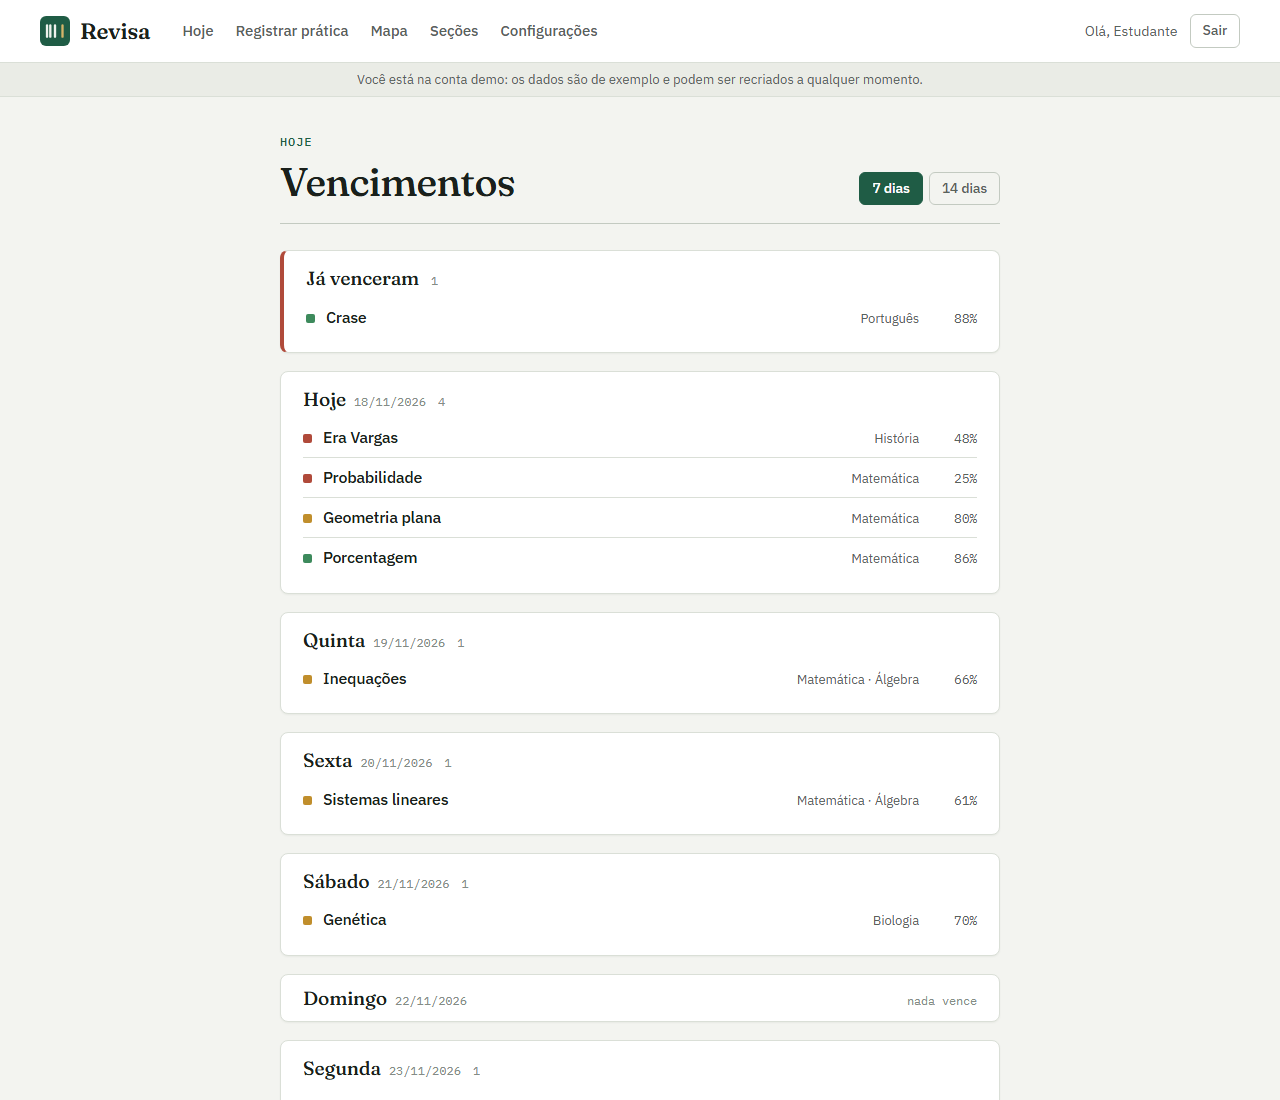
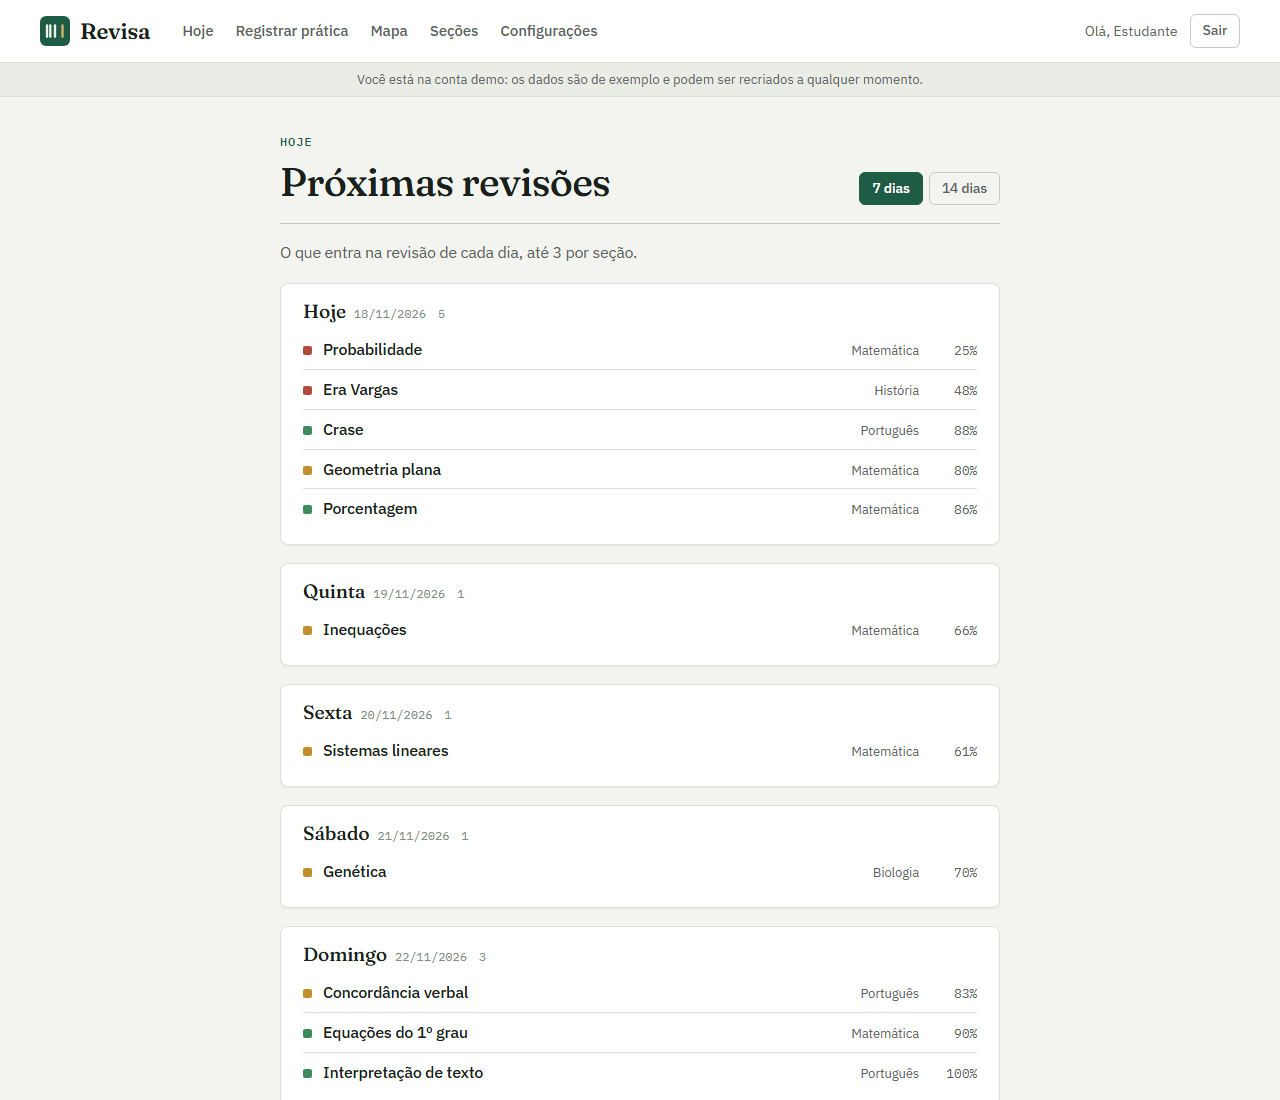
Próximas revisões: lista planejada de cada dia
- A página de vencimentos virou "Próximas revisões": mostra a revisão
  final de cada dia com as mesmas regras da tela Hoje (limite por seção,
  dia fixo, dias das seções e ciclo); o que não cabe passa para o dia
  seguinte.
- O cartão do painel usa os mesmos números.
- README e prints atualizados.

diff --git a/templates/vencimentos.html b/templates/vencimentos.html
@@ -1,43 +1,37 @@
 {% extends "base.html" %}
-{% block titulo %}Vencimentos{% endblock %}
+{% block titulo %}Próximas revisões{% endblock %}
 {% block main_class %}conteudo medio{% endblock %}
-
-{% macro linha(item) %}{% set e = item.estado %}{% set a = item.assunto %}
-<li>
-  <i class="ponto {{ e.dominio_efetivo | cor }}"></i>
-  <a href="{{ url_for('historico', aid=a.id) }}">{{ a.nome }}</a>
-  <small>{{ a.materia }}{% if a.pai %} · {{ a.pai }}{% endif %}</small>
-  <span class="vc-dom">{{ e.dominio_efetivo | pct }}</span>
-</li>
-{% endmacro %}
 
 {% block conteudo %}
 <div class="cab-pagina">
   <div>
     <p class="selo"><a href="{{ url_for('hoje') }}">Hoje</a></p>
-    <h1>Vencimentos</h1>
+    <h1>Próximas revisões</h1>
   </div>
   <div class="vc-periodo">
     <a class="btn btn-p {{ 'btn-fantasma' if n_dias != 7 }}" href="{{ url_for('vencimentos') }}">7 dias</a>
     <a class="btn btn-p {{ 'btn-fantasma' if n_dias != 14 }}" href="{{ url_for('vencimentos', dias=14) }}">14 dias</a>
   </div>
 </div>
-
-{% if vencidos %}
-<section class="bloco vc-dia vc-atrasados">
-  <h2>Já venceram <span class="cont">{{ vencidos | length }}</span></h2>
-  <ul class="vc-lista">{% for item in vencidos %}{{ linha(item) }}{% endfor %}</ul>
-</section>
-{% endif %}
+<p class="sub vc-nota">O que entra na revisão de cada dia{% if cfg.modo in ('diaria', 'ambos') %}, até {{ cfg.revisao_minima }} por seção{% endif %}.</p>
 
 {% for d in dias %}
 <section class="bloco vc-dia {{ 'vazio-dia' if not d.itens }}" id="dia-{{ d.data.isoformat() }}">
   <h2>{{ 'Hoje' if loop.first else NOMES_DIAS[d.data.weekday()] }} <small class="vc-data">{{ d.data | br }}</small>
     <span class="cont">{{ d.itens | length or '' }}</span></h2>
   {% if d.itens %}
-  <ul class="vc-lista">{% for item in d.itens %}{{ linha(item) }}{% endfor %}</ul>
+  <ul class="vc-lista">
+    {% for item in d.itens %}{% set e = item.estado %}{% set a = item.assunto %}
+    <li class="{{ 'feito' if item.feito }}">
+      <i class="ponto {{ e.dominio_efetivo | cor }}"></i>
+      <a href="{{ url_for('historico', aid=a.id) }}">{{ a.nome }}{% if item.feito %} ✓{% endif %}</a>
+      <small>{{ a.materia }}</small>
+      <span class="vc-dom">{{ e.dominio_efetivo | pct }}</span>
+    </li>
+    {% endfor %}
+  </ul>
   {% else %}
-  <p class="nada">Nada vence.</p>
+  <p class="nada">Sem revisão.</p>
   {% endif %}
 </section>
 {% endfor %}

diff --git a/static/css/estilo.css b/static/css/estilo.css
@@ -626,7 +626,7 @@ a.ag-dia:hover { color: var(--acento); }
 .vc-dia.vazio-dia { padding: 12px 22px; }
 .vc-dia.vazio-dia h2 { margin: 0; }
 .vc-dia.vazio-dia .nada { display: none; }
-.vc-dia.vazio-dia h2::after { content: "nada vence"; font-family: var(--mono); font-size: .74rem; color: var(--texto-3); font-weight: 400; margin-left: auto; }
+.vc-dia.vazio-dia h2::after { content: "sem revisão"; font-family: var(--mono); font-size: .74rem; color: var(--texto-3); font-weight: 400; margin-left: auto; }
 .vc-atrasados { border-left: 4px solid var(--vermelho); }
 .vc-lista { list-style: none; margin: 0; padding: 0; }
 .vc-lista li { display: grid; grid-template-columns: 10px minmax(0, 1fr) auto 48px; gap: 10px; align-items: baseline; padding: 7px 0; border-top: 1px solid var(--linha); }
@@ -636,3 +636,5 @@ a.ag-dia:hover { color: var(--acento); }
 .vc-lista small { font-size: .8rem; }
 .vc-dom { font-family: var(--mono); font-size: .8rem; text-align: right; color: var(--texto-2); }
 @media (max-width: 640px) { .vc-lista li { grid-template-columns: 10px 1fr 44px; } .vc-lista small { grid-column: 2; } }
+.vc-nota { margin: -10px 0 18px; }
+.vc-lista li.feito a { color: var(--texto-3); }

diff --git a/templates/hoje.html b/templates/hoje.html
@@ -158,7 +158,7 @@
     </section>
 
     <section class="bloco">
-      <h2 class="lat-tit"><a class="lat-link" href="{{ url_for('vencimentos') }}">Vencimentos</a> <small class="lat-sub">próximos 7 dias</small></h2>
+      <h2 class="lat-tit"><a class="lat-link" href="{{ url_for('vencimentos') }}">Próximas revisões</a></h2>
       <ul class="agenda">
         {% for p in proximos %}
         <li>
@@ -168,7 +168,7 @@
         </li>
         {% endfor %}
       </ul>
-      <p class="mini">Assuntos que vencem em cada dia.</p>
+      <p class="mini">Assuntos na revisão de cada dia.</p>
       <a class="lat-rodape" href="{{ url_for('vencimentos') }}">Ver a semana completa →</a>
     </section>
 

diff --git a/servicos.py b/servicos.py
@@ -280,10 +280,9 @@ def montar_hoje(db, uid: int, dia: date) -> dict:
     # Estado ATUAL (inclui as sessões de hoje) para atrasos, domínio e agenda.
     atual = estados(db, uid, dia, cfg, ids=set(assuntos))
 
-    proximos = []
-    for i in range(1, 8):
-        d = dia + timedelta(days=i)
-        proximos.append({"data": d, "n": sum(1 for e in atual.values() if e.proxima_revisao == d)})
+    # Próximos dias: a mesma revisão planejada da página "Próximas revisões".
+    plano = planejar_revisoes(db, uid, dia, 8, cfg)
+    proximos = [{"data": p["data"], "n": len(p["itens"])} for p in plano[1:]]
 
     com_sessao = {r["assunto_id"] for r in db.execute(
         "SELECT DISTINCT assunto_id FROM sessoes WHERE usuario_id = ?", (uid,))}
@@ -316,19 +315,70 @@ def montar_hoje(db, uid: int, dia: date) -> dict:
     }
 
 
-def montar_vencimentos(db, uid: int, dia: date, n_dias: int = 7) -> dict:
-    """Panorama da semana: o que já venceu e o que vence em cada um dos próximos dias."""
-    cfg = carregar_config(db, uid)
+def planejar_revisoes(db, uid: int, dia: date, n_dias: int = 7, cfg: dict | None = None) -> list[dict]:
+    """
+    Revisão planejada de cada dia, com as mesmas regras da tela Hoje (modo,
+    limite por seção, dia fixo, dias de cada seção e ciclo de estudos).
+
+    Supõe que a pessoa faz a revisão de cada dia: o que entra num dia sai da
+    fila; o que não cabe no limite continua vencido e passa para o dia
+    seguinte. Hoje usa exatamente a mesma lista da tela Hoje.
+    """
+    cfg = cfg or carregar_config(db, uid)
     assuntos = {a["id"]: a for a in listar_folhas(db, uid)}
-    est = estados(db, uid, dia, cfg, ids=set(assuntos))
-    item = lambda e: {"assunto": assuntos[e.assunto_id], "estado": e}
-    ordem = lambda lista: sorted(lista, key=lambda x: (x["assunto"]["materia"], -x["estado"].prioridade))
-    vencidos = ordem([item(e) for e in est.values() if e.proxima_revisao < dia])
-    dias = []
-    for i in range(n_dias):
+    if not usa_dias_por_secao(cfg):
+        assuntos = {aid: dict(a, dias_materia=[]) for aid, a in assuntos.items()}
+    atual = estados(db, uid, dia, cfg, ids=set(assuntos))
+    feitas_hoje = {r["assunto_id"] for r in db.execute(
+        "SELECT DISTINCT assunto_id FROM sessoes WHERE usuario_id = ? AND data = ?", (uid, dia.isoformat()))}
+
+    # Hoje: a mesma seleção da tela Hoje.
+    sel_hoje = selecao_do_dia(db, uid, dia, cfg, assuntos)["selecao"]
+    dias = [{"data": dia, "itens": [{"assunto": assuntos[e.assunto_id], "estado": e,
+                                     "feito": e.assunto_id in feitas_hoje} for e in sel_hoje]}]
+    # Fila para os próximos dias: estado atual (já com as práticas de hoje),
+    # sem o que entra hoje e ainda não foi feito.
+    fila = {aid: e for aid, e in atual.items()
+            if not (aid in {x.assunto_id for x in sel_hoje} and aid not in feitas_hoje)}
+
+    # Ciclo: simula a fila de seções andando um passo por dia.
+    ciclo = [dict(it) for it in ler_ciclo(db, uid)] if usa_ciclo(cfg) else []
+    k = cfg.get("secoes_por_dia", 2)
+    if ciclo:
+        for it in L.secoes_da_vez(ciclo, k, dia):
+            if it["ultimo_dia"] != dia:
+                it["rodada"] += 1
+
+    secao_de = {aid: a["materia_id"] for aid, a in assuntos.items()}
+    for i in range(1, n_dias):
         d = dia + timedelta(days=i)
-        dias.append({"data": d, "itens": ordem([item(e) for e in est.values() if e.proxima_revisao == d])})
-    return {"vencidos": vencidos, "dias": dias, "cfg": cfg}
+        candidatos = [e for aid, e in fila.items() if L.estuda_no_dia(d, assuntos[aid]["dias_materia"])]
+        if ciclo:
+            vez = L.secoes_da_vez(ciclo, k, d)
+            da_vez = {it["materia_id"] for it in vez}
+            candidatos = [e for e in candidatos if secao_de[e.assunto_id] in da_vez]
+            for it in vez:
+                it["rodada"] += 1
+        tipo = L.tipo_de_revisao(cfg["modo"], cfg["dias_fixos"], d)
+        if tipo == "grande":
+            sel = L.selecionar_revisao_grande(candidatos, d, L.proximo_dia_fixo(d, cfg["dias_fixos"]))
+        elif tipo == "diaria":
+            sel = L.selecionar_revisao_diaria(candidatos, d, cfg["revisao_minima"], secao_de)
+        elif tipo == "completa":
+            sel = L.selecionar_revisao_completa(candidatos, d)
+        else:
+            sel = []
+        for e in sel:
+            fila.pop(e.assunto_id, None)
+        dias.append({"data": d, "itens": [{"assunto": assuntos[e.assunto_id], "estado": e, "feito": False}
+                                         for e in sel]})
+    return dias
+
+
+def montar_vencimentos(db, uid: int, dia: date, n_dias: int = 7) -> dict:
+    """Página "Próximas revisões": a revisão planejada de cada dia."""
+    cfg = carregar_config(db, uid)
+    return {"dias": planejar_revisoes(db, uid, dia, n_dias, cfg), "cfg": cfg}
 
 
 # ---------------------------------------------------------------------------

diff --git a/tests/test_app.py b/tests/test_app.py
@@ -235,7 +235,7 @@ class TestApp(unittest.TestCase):
         self.assertIn("Beta", amanha)      # 40%: foi mal, volta em 1 dia
         self.assertNotIn("Gama", amanha)   # 60%: médio, volta em 2 dias
         self.assertNotIn("Alfa", amanha)   # 100%: bom, volta em 3 dias
-        self.assertIn("Vencimentos", html)
+        self.assertIn("Próximas revisões", html)
 
     def test_ciclo_de_estudos(self):
         hoje = S.hoje()
@@ -273,6 +273,26 @@ class TestApp(unittest.TestCase):
         # a fila vai junto no exportar
         self.assertEqual(self.c.get("/configuracoes/exportar").get_json()["ciclo"],
                          ["Matemática", "Biologia", "História"])
+
+    def test_revisoes_planejadas_respeitam_o_limite(self):
+        from datetime import timedelta
+        hoje = S.hoje()
+        self.criar_usuario("pl@pl.com")
+        self.post("/configuracoes", {"ritmo": "leve", "aprendizado": "padrao", "teto_dias": "45",
+                                     "modo": "diaria", "revisao_minima": "2", "questoes_modo": "auto",
+                                     "questoes_fixas": "10"}, "/configuracoes")
+        self.post("/materias/nova", {"nome": "Math"}, "/materias")
+        for nome in ("A1", "A2", "A3"):
+            self.post("/assuntos/novo", {"nome": nome, "materia_id": "1"}, "/materias")
+        # os três venceram (30% há 5 dias -> voltariam em 1 dia)
+        for aid in ("1", "2", "3"):
+            self.post("/sessoes/nova", {"assunto_id": aid, "data": (hoje - timedelta(days=5)).isoformat(),
+                                        "acertos": "3", "total": "10"}, "/sessoes/nova")
+        html = self.c.get("/vencimentos").get_data(as_text=True)
+        dias = html.split('class="bloco vc-dia')[1:]
+        conta = lambda bloco: sum(bloco.count(f">{n}<") for n in ("A1", "A2", "A3"))
+        self.assertEqual(conta(dias[0]), 2)   # hoje: o limite de 2
+        self.assertEqual(conta(dias[1]), 1)   # amanhã: o que não coube
 
     def test_pwa(self):
         r = self.c.get("/manifest.webmanifest")

diff --git a/README.md b/README.md
@@ -16,7 +16,7 @@ Roda localmente (um clique no `iniciar.bat`) ou online no PythonAnywhere.
 
 - **Contas de usuário**: cadastro, login e logout, senhas com hash. Cada usuário só vê e edita os próprios dados (checado no backend em todas as rotas).
 - **Onboarding** no primeiro acesso, antes de entrar no app: ritmo de estudo, fase de aprendizado, máximo de dias sem revisão, como as seções se distribuem na semana (todas todo dia, dias por seção ou ciclo de estudos), modo de revisão, dia fixo, limite por seção e questões por assunto.
-- **Hoje (painel)**: números do dia (revisões feitas, questões sugeridas, atrasados, domínio médio), a lista de revisões com registro direto na linha (acertos + Enter), uma prévia de **amanhã**, os **vencimentos** dos próximos 7 dias e o progresso nos assuntos ainda não começados.
+- **Hoje (painel)**: números do dia (revisões feitas, questões sugeridas, atrasados, domínio médio), a lista de revisões com registro direto na linha (acertos + Enter), uma prévia de **amanhã**, as **próximas revisões** (a lista planejada de cada dia, com o limite por seção) e o progresso nos assuntos ainda não começados.
 - **Registrar prática**: formulário rápido (seção → assunto, data, acertos, total, observação).
 - **Mapa de domínio**: uma lista só, por seção, com barra colorida (vermelho < 50%, amarelo 50–84%, verde ≥ 85%) e o status de cada assunto. Os contadores do topo (*Revisar agora*, *Pode esperar*, *Dominado*) servem de filtro.
 - **Histórico do assunto**: lista de práticas (editar/excluir) e gráfico de linha da % de acerto (Chart.js).
@@ -40,9 +40,9 @@ Roda localmente (um clique no `iniciar.bat`) ou online no PythonAnywhere.
 |---|---|
 | ![Registrar](docs/prints/registrar.png) | ![Seções](docs/prints/materias.png) |
 
-| Vencimentos da semana | Assunto com subassuntos |
+| Próximas revisões | Assunto com subassuntos |
 |---|---|
-| ![Vencimentos](docs/prints/vencimentos.png) | ![Assunto com subassuntos](docs/prints/grupo.png) |
+| ![Próximas revisões](docs/prints/vencimentos.png) | ![Assunto com subassuntos](docs/prints/grupo.png) |
 
 | Configurações |
 |---|
